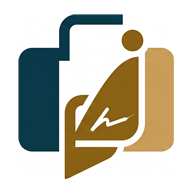
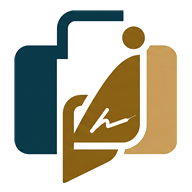
1.12 — sincronização de mão dupla, menu visível e configurações por abas
SINCRONIZAÇÃO — os dois buracos que você encontrou eram reais e vinham do
mesmo erro de desenho: ela só PUXAVA da nuvem.
- O que já existia no navegador antes da nuvem nunca subia, então quem
  entrava com outra conta via a fila vazia. Agora sobe o que só existe aqui.
- Exclusão não descia: uma lista de quem existe não sabe dizer quem deixou
  de existir. Excluir passou a deixar uma LÁPIDE no lugar do documento, e a
  sincronização apaga o registro em todos os computadores.
A lápide não guarda dado pessoal: o set sem merge substitui o documento
inteiro, então nome, CNPJ, sócios e endereços somem da nuvem no mesmo
instante — fica só o identificador e a data. E o excluído não ressuscita na
sincronização seguinte.

MENU — Solicitações, Painel de casos e E-mail passaram para o cabeçalho, a
um clique. O menu ☰ ficou com o que é ocasional (Configurações e Sair). No
celular, onde não cabe, os mesmos itens reaparecem dentro do menu.

CONFIGURAÇÕES — estava tudo numa coluna só e achar um campo virava rolagem.
Agora são cinco abas: Escritório, Padrões, Avisos, Nuvem e Equipe. O
conteúdo é o mesmo, só separado por assunto. A aba Equipe explica o que
fazer quando a conta não é de administrador, em vez de aparecer vazia.

ÍCONE sem fundo branco. O maskable continua opaco de propósito: o Android
recorta o ícone numa máscara, e fundo transparente ali vira buraco.

PAINEL DE CASOS — a barra de rolagem lateral sumia (barra sobreposta do
[…]

diff --git a/index.html b/index.html
@@ -9,7 +9,7 @@
 <meta http-equiv="Content-Security-Policy" content="default-src 'self'; script-src 'self' 'unsafe-inline' 'wasm-unsafe-eval' blob:; worker-src 'self' blob:; style-src 'self' 'unsafe-inline'; img-src 'self' data: blob:; font-src 'self' data:; connect-src 'self' https://viacep.com.br https://brasilapi.com.br https://identitytoolkit.googleapis.com https://securetoken.googleapis.com https://firestore.googleapis.com wss://firestore.googleapis.com data: blob:; object-src 'none'; base-uri 'none'; form-action 'none'" />
 <meta name="referrer" content="no-referrer" />
 <meta name="viewport" content="width=device-width, initial-scale=1" />
-<meta name="versao" content="1.11" />
+<meta name="versao" content="1.12" />
 <link rel="manifest" href="manifest.webmanifest" />
 <meta name="theme-color" content="#14293f" />
 <meta name="apple-mobile-web-app-capable" content="yes" />
@@ -203,6 +203,28 @@
   .pt-box input{width:100%;padding:9px 10px;border:1px solid var(--line);border-radius:8px;font:inherit;font-size:14px}
   .pt-box .btn{width:100%;margin-top:16px;justify-content:center}
   .pt-stat{font-size:12.5px;margin-top:10px;min-height:16px;text-align:center}
+  /* Painel de casos: rolagem lateral que não some */
+  .casos-rol{overflow-x:auto;overflow-y:hidden;padding-bottom:4px;scrollbar-gutter:stable}
+  .casos-rol::-webkit-scrollbar{height:11px}
+  .casos-rol::-webkit-scrollbar-track{background:#eef1f5;border-radius:6px}
+  .casos-rol::-webkit-scrollbar-thumb{background:#b9c2cd;border-radius:6px;border:2px solid #eef1f5}
+  .casos-rol::-webkit-scrollbar-thumb:hover{background:#8b97a6}
+  /* Abas das configurações */
+  .cfg-abas{display:flex;gap:4px;flex-wrap:wrap;border-bottom:1px solid var(--line);margin:-4px 0 14px;padding-bottom:0}
+  .cfg-aba{background:none;border:0;border-bottom:2px solid transparent;padding:8px 12px;font:inherit;font-size:13px;
+    color:var(--muted);cursor:pointer;border-radius:6px 6px 0 0}
+  .cfg-aba:hover{background:#eef1f5;color:#1b1f24}
+  .cfg-aba.ativa{color:var(--navy);font-weight:700;border-bottom-color:var(--navy)}
+  .cfg-aba:focus-visible{outline:2px solid var(--gold);outline-offset:-2px}
+  /* Itens do cabeçalho: um clique, sempre à vista */
+  .head-nav{display:flex;gap:6px;align-items:center;margin-right:8px}
+  .head-item{position:relative;display:flex;align-items:center;gap:6px;background:rgba(255,255,255,.10);border:1px solid rgba(255,255,255,.22);
+    color:#fff;border-radius:9px;padding:7px 12px;font:inherit;font-size:13px;cursor:pointer;transition:background .18s;white-space:nowrap}
+  .head-item:hover{background:rgba(255,255,255,.22)}
+  .head-item:focus-visible{outline:2px solid var(--gold);outline-offset:2px}
+  .head-item .badge{position:absolute;top:-6px;right:-6px;margin:0}
+  .so-mobile{display:none}
+  @media(max-width:900px){ .head-nav{display:none} .so-mobile{display:block} }
   /* Menu do usuário */
   .usermenu{position:relative}
   .menu-pop{position:absolute;right:10px;top:40px;min-width:250px;background:#fff;border:1px solid var(--line);border-radius:10px;box-shadow:0 10px 30px rgba(0,0,0,.18);padding:6px;display:none;z-index:60}
@@ -256,14 +278,23 @@
   <button class="head-install" id="btnInstalar" type="button" title="Instalar como aplicativo" style="display:none">⤓ Instalar app</button>
   <!-- Menu do usuário: reúne o que NÃO é do documento (solicitações, casos, e-mail, configurações).
        A barra de ações abaixo do formulário ficou só com o que age sobre o arquivo. -->
+  <!-- O que se usa o tempo todo fica a UM clique, no próprio cabeçalho. O menu guarda o resto. -->
+  <nav class="head-nav">
+    <button class="head-item" id="btnSolic" type="button">🗂 <span>Solicitações</span><span class="badge" id="solicBadge" style="display:none">0</span></button>
+    <button class="head-item" id="btnPainel" type="button">📁 <span>Painel de casos</span></button>
+    <button class="head-item" id="btnEmail" type="button">✉ <span>E-mail</span></button>
+  </nav>
   <div class="usermenu">
     <button class="head-gear" id="btnMenu" type="button" title="Menu" aria-label="Menu" aria-haspopup="true" aria-expanded="false">☰<span class="badge" id="menuBadge" style="display:none">0</span></button>
     <div class="menu-pop" id="menuPop" role="menu">
       <div class="menu-quem" id="menuQuem"></div>
-      <button type="button" role="menuitem" id="btnSolic">🗂 Solicitações <span class="badge" id="solicBadge" style="display:none">0</span></button>
-      <button type="button" role="menuitem" id="btnPainel">📁 Painel de casos</button>
-      <button type="button" role="menuitem" id="btnEmail">✉ E-mail de confirmação</button>
-      <div class="menu-sep"></div>
+      <!-- no celular o cabeçalho não cabe: os mesmos itens reaparecem aqui -->
+      <div class="so-mobile">
+        <button type="button" role="menuitem" id="btnSolicM">🗂 Solicitações</button>
+        <button type="button" role="menuitem" id="btnPainelM">📁 Painel de casos</button>
+        <button type="button" role="menuitem" id="btnEmailM">✉ E-mail de confirmação</button>
+        <div class="menu-sep"></div>
+      </div>
       <button type="button" role="menuitem" id="btnConfig">⚙ Configurações</button>
       <button type="button" role="menuitem" id="btnSairMenu" style="display:none">⎋ Sair</button>
     </div>
@@ -795,9 +826,16 @@
   <div class="modal">
     <div class="mh"><span>⚙ Configurações do escritório</span><button class="x" id="btnConfigClose">Fechar</button></div>
     <div class="mb">
-      <div class="hint" style="margin-bottom:12px">Personalize a marca e os dados que se repetem. Fica salvo <b>só neste navegador</b>. Nada aqui entra nos documentos como dado de cliente — é a identidade do seu escritório e valores padrão.</div>
+      <div class="cfg-abas" role="tablist">
+        <button type="button" class="cfg-aba ativa" data-cfg="escritorio" role="tab">Escritório</button>
+        <button type="button" class="cfg-aba" data-cfg="padroes" role="tab">Padrões</button>
+        <button type="button" class="cfg-aba" data-cfg="avisos" role="tab">Avisos</button>
+        <button type="button" class="cfg-aba" data-cfg="nuvem" role="tab">Nuvem</button>
+        <button type="button" class="cfg-aba" data-cfg="equipe" role="tab" id="cfgAbaEquipe" style="display:none">Equipe</button>
+      </div>
 
-      <div class="hint" style="font-weight:700;color:var(--navy);margin:4px 0 6px">Identidade (marca)</div>
+      <section class="cfg-painel" data-cfg="escritorio">
+      <div class="hint" style="margin-bottom:10px">A identidade do seu escritório nos documentos e no e-mail. Fica salvo <b>só neste navegador</b>.</div>
       <div class="grid g2 row">
         <div><label for="cfgEscritorio">Nome do escritório</label><input type="text" id="cfgEscritorio" placeholder="Ex.: Sua Contabilidade Ltda"></div>
         <div><label for="cfgCor">Cor principal <span class="hint">(destaque do topo/botões)</span></label><input type="color" id="cfgCor" value="#14293f" style="height:42px;padding:4px"></div>
@@ -811,16 +849,22 @@
         </div>
       </div>
 
-      <div class="hint" style="font-weight:700;color:var(--navy);margin:14px 0 6px">Dados que se repetem</div>
+      <div class="hint" style="font-weight:700;color:var(--navy);margin:14px 0 6px">Quem assina os e-mails</div>
       <div class="grid g2 row">
         <div><label for="cfgParalegal">Paralegal responsável <span class="hint">(assinatura do e-mail)</span></label><input type="text" id="cfgParalegal" placeholder="Seu nome"></div>
         <div><label for="cfgRemetente">E-mail do remetente</label><input type="text" id="cfgRemetente" placeholder="voce@seuescritorio.com.br"></div>
       </div>
-      <div class="grid g2 row">
-        <div><label for="cfgAvisoWhats">WhatsApp para avisos <span class="hint">(solicitação nova)</span></label><input type="text" id="cfgAvisoWhats" placeholder="(79) 90000-0000"></div>
-        <div><label for="cfgAvisoEmail">E-mail para avisos</label><input type="text" id="cfgAvisoEmail" placeholder="equipe@seuescritorio.com.br"></div>
-      </div>
-      <div class="hint" style="font-weight:700;color:var(--navy);margin:14px 0 6px">Nuvem <span class="hint" style="font-weight:400">— entra para compartilhar solicitações e casos entre computadores</span></div>
+      </section>
+
+      <section class="cfg-painel" data-cfg="avisos" hidden>
+        <div class="hint" style="margin-bottom:10px">Para onde mandar o aviso quando alguém da equipe lança uma solicitação nova. O envio é a um clique, pelo botão <b>Avisar</b> na solicitação.</div>
+        <div class="grid g2 row">
+          <div><label for="cfgAvisoWhats">WhatsApp para avisos</label><input type="text" id="cfgAvisoWhats" placeholder="(79) 90000-0000"></div>
+          <div><label for="cfgAvisoEmail">E-mail para avisos</label><input type="text" id="cfgAvisoEmail" placeholder="equipe@seuescritorio.com.br"></div>
+        </div>
+      </section>
+      <section class="cfg-painel" data-cfg="nuvem" hidden>
+      <div class="hint" style="margin-bottom:10px">Entrar compartilha solicitações e casos entre computadores. Sem isso o sistema funciona igual, só neste navegador.</div>
       <div class="grid g3 row" id="nuvemLogin">
         <div><label for="nvEmail">E-mail</label><input type="text" id="nvEmail" autocomplete="username"></div>
         <div><label for="nvSenha">Senha</label><input type="password" id="nvSenha" autocomplete="current-password"></div>
@@ -830,8 +874,11 @@
         </div>
       </div>
       <div class="hint" id="nvStatus" style="margin-top:4px"></div>
-      <div id="equipeBloco" style="display:none;margin-top:10px">
-        <div class="hint" style="font-weight:700;color:var(--navy);margin-bottom:6px">Equipe</div>
+      </section>
+
+      <section class="cfg-painel" data-cfg="equipe" hidden>
+      <div id="equipeBloco" style="display:none">
+        <div class="hint" style="margin-bottom:10px">Cadastre quem usa o sistema. Peça para trocarem a senha no primeiro acesso — o sistema não força.</div>
         <div class="grid g4 row">
           <div><label for="eqNome">Nome</label><input type="text" id="eqNome"></div>
           <div><label for="eqEmail">E-mail</label><input type="text" id="eqEmail" autocomplete="off"></div>
@@ -842,8 +889,12 @@
           </div>
         </div>
         <div class="fldstat" id="eqStat"></div>
-        <div id="eqLista" style="margin-top:8px"></div>
+        <div id="eqLista" style="margin-top:10px"></div>
       </div>
+      <div class="hint" id="equipeSemAdmin">Só quem é administrador cadastra e remove pessoas. Entre na aba <b>Nuvem</b> com uma conta de administrador.</div>
+      </section>
+
+      <section class="cfg-painel" data-cfg="padroes" hidden>
 
       <div class="row">
         <label for="cfgJunta">Junta Comercial <span class="hint">— nome que aparece nos documentos; troque para o seu estado</span></label>
@@ -868,6 +919,8 @@
         <div><label for="cfgOrgaoUF">UF do órgão</label><select id="cfgOrgaoUF"></select></div>
       </div>
       <div class="row"><label for="cfgForo">Foro padrão <span class="hint">(comarca)</span></label><input type="text" id="cfgForo" placeholder="Ex.: Aracaju - SE"></div>
+
+      </section>
 
       <div class="bar" style="margin-top:14px">
         <button class="btn p mini" id="btnConfigSalvar">Salvar configurações</button>
@@ -2640,39 +2693,70 @@ window.TINA=(function(){
   }
   /* Traz da nuvem o que não existe aqui (outro computador, ou navegador limpo).
      Não sobrescreve o que é mais novo localmente — em conflito, o mais recente vence. */
+  // mesma lógica de mão dupla dos atos: desce (com exclusões) e sobe o que só existe aqui
   function sincronizarSolic(){
     if(!(window.Nuvem&&window.Nuvem.podeGravar())) return Promise.resolve();
     return window.Nuvem.listar("solicitacoes",{limite:500}).then(r=>{
       if(!r.ok) return;
-      const local=lerSolic(); const porId={}; local.forEach(x=>porId[x.id]=x);
+      let local=lerSolic(); const remoto={}; r.itens.forEach(x=>remoto[x.id]=x);
       let mudou=false;
       r.itens.forEach(rem=>{
-        const loc=porId[rem.id];
+        if(rem.excluido){ if(local.some(x=>x.id===rem.id)){ local=local.filter(x=>x.id!==rem.id); mudou=true; } return; }
+        const loc=local.find(x=>x.id===rem.id);
         if(!loc){ local.push(rem); mudou=true; }
-        else if((rem.alteradoEm||"")>(loc.alteradoEm||"")){ Object.assign(loc,rem); mudou=true; }
+        else if(_maisNovo(rem.alteradoEm,loc.alteradoEm)){ Object.assign(loc,rem); mudou=true; }
       });
       if(mudou){ local.sort((a,b)=>String(b.alteradoEm||"").localeCompare(String(a.alteradoEm||""))); salvarSolic(local); renderSolic(); }
+      const subir=local.filter(s=>{ const rem=remoto[s.id];
+        if(rem&&rem.excluido) return false;
+        return !rem || _maisNovo(s.alteradoEm,rem.alteradoEm); });
+      if(!subir.length) return;
+      return Promise.all(subir.slice(0,80).map(s=>window.Nuvem.salvar("solicitacoes",s.id,s)));
     });
   }
   /* Traz da nuvem os atos que faltam neste navegador (outro computador, ou cache limpo).
      O trabalho completo vem junto e é gravado no armazenamento de "trabalhos em espera",
      que é de onde o painel já sabe reabrir um caso. */
+  /* Sincronização de mão dupla. A primeira versão só PUXAVA, e isso deixava dois buracos que
+     apareceram no uso real: (1) o que já existia neste navegador antes da nuvem nunca subia, então
+     um colega novo via a fila vazia; (2) exclusão não descia, porque uma lista de quem existe não
+     sabe dizer quem deixou de existir. Agora: sobe o que falta lá, desce o que falta aqui, e as
+     lápides (ver nuvem.js) apagam de verdade dos dois lados. Em conflito, vence o mais recente. */
+  function _maisNovo(a,b){ return String(a||"")>String(b||""); }
   function sincronizarAtos(){
     if(!(window.Nuvem&&window.Nuvem.podeGravar())) return Promise.resolve();
     return window.Nuvem.listar("atos",{limite:500}).then(r=>{
       if(!r.ok) return;
-      const cs=lerCasos(); const por={}; cs.forEach(c=>por[c.id]=c);
-      const tr=lerTrabalhos(); let mudou=false, mudouTr=false;
+      let cs=lerCasos(); const tr=lerTrabalhos();
+      const remoto={}; r.itens.forEach(x=>remoto[x.id]=x);
+      let mudou=false, mudouTr=false;
+      // 1) desce: novos, mais recentes e exclusões
       r.itens.forEach(rem=>{
+        if(rem.excluido){                                     // apagado noutro computador
+          if(cs.some(c=>c.id===rem.id)){ cs=cs.filter(c=>c.id!==rem.id); mudou=true; }
+          if(tr[rem.id]){ delete tr[rem.id]; mudouTr=true; }
+          if(casoAtualId===rem.id) casoAtualId=null;
+          return;
+        }
         const {trabalho,...caso}=rem;
-        const loc=por[caso.id];
+        const loc=cs.find(c=>c.id===caso.id);
         if(!loc){ cs.push(caso); mudou=true; }
-        else if((rem.alteradoEm||"")>(loc.alteradoEm||"")){ Object.assign(loc,caso); mudou=true; }
+        else if(_maisNovo(rem.alteradoEm,loc.alteradoEm)){ Object.assign(loc,caso); mudou=true; }
         if(trabalho && !tr[caso.id]){ tr[caso.id]={ts:Date.parse(rem.alteradoEm||"")||Date.now(), snap:trabalho}; mudouTr=true; }
       });
       if(mudou) salvarCasos(cs);
       if(mudouTr) gravarTrabalhos(tr);
       if(mudou||mudouTr) renderPainel();
+      // 2) sobe: o que só existe aqui (inclusive o que é anterior à nuvem) ou está mais novo aqui
+      const subir=cs.filter(c=>{ const rem=remoto[c.id];
+        if(rem&&rem.excluido) return false;                   // não ressuscita o que foi excluído
+        return !rem || _maisNovo(c.alteradoEm,rem.alteradoEm); });
+      if(!subir.length) return;
+      return Promise.all(subir.slice(0,80).map(c=>{
+        const t=tr[c.id]; const dados=Object.assign({},c,{alteradoEm:c.alteradoEm||new Date(c.criadoEm||Date.now()).toISOString()});
+        if(t&&t.snap) dados.trabalho=t.snap;
+        return window.Nuvem.salvar("atos",c.id,dados);
+      })).then(()=>{ if(subir.length) salvarCasos(cs); });
     });
   }
   /* ===== Aviso de solicitação nova =====
@@ -2922,7 +3006,9 @@ window.TINA=(function(){
     else casos.sort((a,b)=>(b.criadoEm||0)-(a.criadoEm||0));
     if(!todos){box.innerHTML="<p class='hint'>Nenhum caso salvo ainda. Preencha um ato e clique em \"+ Salvar caso atual\" (ou salve pelo e-mail de confirmação).</p>";return;}
     if(!casos.length){box.innerHTML="<p class='hint'>Nenhum caso corresponde à busca \""+escHtml(q)+"\".</p>";return;}
-    box.innerHTML="<div style='overflow-x:auto'><table style='width:100%;font-size:12px;border-collapse:collapse' class='casostbl'>"+
+    // rolagem lateral com barra SEMPRE visível: com a barra sobreposta do Windows ela some quando
+    // o ponteiro sai, e a coluna de ações à direita parecia não existir
+    box.innerHTML="<div class='casos-rol'><table style='min-width:640px;width:100%;font-size:12px;border-collapse:collapse' class='casostbl'>"+
       "<tr><th style='text-align:left'>ID</th><th style='text-align:left'>Empresa</th><th style='text-align:left'>Tipo</th><th>Data</th><th>Situação</th><th></th></tr>"+
       casos.map(c=>"<tr data-id='"+escHtml(c.id)+"'"+(c.id===casoAtualId?" style='background:#f2f7ff'":"")+">"+
         "<td><code>#"+escHtml(c.id)+"</code></td>"+
@@ -4384,6 +4470,14 @@ window.TINA=(function(){
     $("btnPDF").addEventListener("click",baixarPDF);
     $("s_uf").innerHTML=ufOpts();
     if($("advOabUf")) $("advOabUf").innerHTML=ufOpts();
+    /* Abas das configurações: tudo estava numa coluna só, e achar um campo virava rolagem.
+       O conteúdo é o mesmo — só passou a ficar separado por assunto. */
+    document.querySelectorAll(".cfg-aba").forEach(b=>b.addEventListener("click",()=>{
+      const alvo=b.dataset.cfg;
+      document.querySelectorAll(".cfg-aba").forEach(x=>x.classList.toggle("ativa",x===b));
+      document.querySelectorAll(".cfg-painel").forEach(p=>{ p.hidden=(p.dataset.cfg!==alvo); });
+      const mb=b.closest(".mb"); if(mb) mb.scrollTop=0;
+    }));
     /* Nuvem: liga os controles e mantém o rodapé em dia. Se não houver configuração
        (arquivo nuvem-config.js em branco), tudo continua funcionando só no navegador. */
     /* Menu do usuário: abre no clique, fecha ao escolher, ao clicar fora ou com Esc. */
@@ -4439,6 +4533,10 @@ window.TINA=(function(){
       st.textContent=ehAdmin ? "Caso de teste baixado."
         : "Arquivo gerado — envie ao suporte do sistema. Ele não contém dados do seu cliente.";
     });
+    // os itens do celular fazem o mesmo que os do cabeçalho
+    if($("btnSolicM")) $("btnSolicM").addEventListener("click",()=>$("btnSolic").click());
+    if($("btnPainelM")) $("btnPainelM").addEventListener("click",()=>$("btnPainel").click());
+    if($("btnEmailM")) $("btnEmailM").addEventListener("click",()=>$("btnEmail").click());
     if($("btnSolic")) $("btnSolic").addEventListener("click",()=>{ abrirSolic(); sincronizarSolic(); });
     if($("btnSolicClose")) $("btnSolicClose").addEventListener("click",()=>$("solicModal").classList.remove("open"));
     if($("btnSolicNova")) $("btnSolicNova").addEventListener("click",novaSolic);
@@ -4497,6 +4595,8 @@ window.TINA=(function(){
         const bt=$("btnCasoTeste");
         if(bt) bt.textContent = e.admin ? "Guardar como caso de teste" : "Relatar problema de leitura";
         const eb=$("equipeBloco"); if(eb) eb.style.display=e.admin?"":"none";
+        const semAdm=$("equipeSemAdmin"); if(semAdm) semAdm.style.display=e.admin?"none":"";
+        const abaEq=$("cfgAbaEquipe"); if(abaEq) abaEq.style.display=e.configurado?"":"none";
         if(e.admin && window.__renderEquipe) window.__renderEquipe();
         if(e.daEquipe){ sincronizarSolic(); sincronizarAtos(); ligarAvisoSolic(); }
       });
@@ -4689,7 +4789,7 @@ window.TINA=(function(){
   });
   window.addEventListener("load",()=>bootPronto());              // rede lenta: libera assim que tudo carregou
   setTimeout(()=>bootPronto(),8000);                              // trava de segurança: nunca ficar preso
-  return{recalc,removeSocio,gerarPreview,baixarDocx,baixarPDF,gerarPdfBlob,exemplo,limpar,validar,acaoValidar,_u:{extensoReais,extensoInt,dataExtenso,validaCPF,validaCNPJ,fmtCnpj},_pdf:{parseContratoTexto,aplicarDadosContrato,aplicarDocFormulario,procedencia,aplicarAtribuicao,comparacao:()=>_comparacao,preProtocolo,anonimizarContrato,sobrouDadoReal},_cmd:{parseComandos,normAtividade,mesmaAtividade},_ux:{toast,renderPainel,exportarCasos,importarCasos,duplicarCaso,abrirConfig,aplicarCfg,lerCfg,salvarCfg,snapshotForm,restaurarForm,draftTemConteudo,shade,checarConsistencia,cepUF,lerObjetos,salvarObjetos,inserirObjeto}};
+  return{recalc,removeSocio,gerarPreview,baixarDocx,baixarPDF,gerarPdfBlob,exemplo,limpar,validar,acaoValidar,_u:{extensoReais,extensoInt,dataExtenso,validaCPF,validaCNPJ,fmtCnpj},_pdf:{parseContratoTexto,aplicarDadosContrato,aplicarDocFormulario,procedencia,aplicarAtribuicao,comparacao:()=>_comparacao,preProtocolo,anonimizarContrato,sobrouDadoReal},_cmd:{parseComandos,normAtividade,mesmaAtividade},_ux:{toast,renderPainel,sincronizarSolic,sincronizarAtos,exportarCasos,importarCasos,duplicarCaso,abrirConfig,aplicarCfg,lerCfg,salvarCfg,snapshotForm,restaurarForm,draftTemConteudo,shade,checarConsistencia,cepUF,lerObjetos,salvarObjetos,inserirObjeto}};
 })();
 </script>
 <button id="btnTopo" type="button" title="Voltar ao topo" aria-label="Voltar ao topo">↑</button>

diff --git a/testes.html b/testes.html
@@ -436,6 +436,53 @@
         !!(dB.conferir||[]).some(function(x){ return /Capital/i.test(x); }), (dB.conferir||[]).join(" | ").slice(0,120));
     }catch(e){ reg("Bateria de leitura por cláusula",false,String(e&&e.message||e).slice(0,120)); }
 
+    /* ---------- 6b2k. Sincronização de mão dupla ----------
+       A primeira versão só PUXAVA da nuvem. No uso real isso deixou dois buracos: o que já
+       existia no navegador antes da nuvem nunca subia (o colega novo via a fila vazia), e a
+       exclusão não descia (uma lista de quem existe não diz quem deixou de existir). */
+    grupo("Sincronização");
+    try{
+      await recarregar(); $=function(id){ return D.getElementById(id); };
+      // nuvem simulada: guarda o que sobe e devolve o que "existe lá"
+      var nuvem={}, enviados=[];
+      W.Nuvem.podeGravar=function(){ return true; };
+      W.Nuvem.listar=function(col){ return Promise.resolve({ok:true,itens:Object.keys(nuvem).map(function(k){return nuvem[k];})}); };
+      W.Nuvem.salvar=function(col,id,dados){ enviados.push(id); nuvem[id]=Object.assign({id:id},dados); return Promise.resolve({ok:true,id:id}); };
+      W.Nuvem.trilha=function(){ return Promise.resolve({ok:true}); };
+
+      // 1) SOBE o que só existe aqui (registro anterior à nuvem, sem alteradoEm)
+      W.localStorage.setItem("tinaSolic",JSON.stringify([
+        {id:"S-ANTIGA",empresa:"ANTERIOR A NUVEM",status:"nova",alteradoEm:"2026-01-01T00:00:00.000Z"}]));
+      await W.TINA._ux.sincronizarSolic(); await espera(300);
+      reg("Sobe para a nuvem o que já existia neste navegador",
+        !!nuvem["S-ANTIGA"] && enviados.indexOf("S-ANTIGA")>=0, JSON.stringify(Object.keys(nuvem)));
+
+      // 2) DESCE o que foi criado noutro computador
+      nuvem["S-OUTRA"]={id:"S-OUTRA",empresa:"CRIADA NO OUTRO PC",status:"nova",alteradoEm:"2026-02-01T00:00:00.000Z"};
+      await W.TINA._ux.sincronizarSolic(); await espera(300);
+      var loc=JSON.parse(W.localStorage.getItem("tinaSolic")||"[]");
+      reg("Desce o que foi criado noutro computador", loc.some(function(x){return x.id==="S-OUTRA";}), loc.length+" local");
+
+      // 3) EXCLUSÃO desce: a lápide apaga aqui também
+      nuvem["S-OUTRA"]={id:"S-OUTRA",excluido:true,excluidoEm:"2026-03-01T00:00:00.000Z"};
+      await W.TINA._ux.sincronizarSolic(); await espera(300);
+      loc=JSON.parse(W.localStorage.getItem("tinaSolic")||"[]");
+      reg("Excluída noutro computador some daqui também",
+        !loc.some(function(x){return x.id==="S-OUTRA";}), loc.map(function(x){return x.id;}).join(","));
+      reg("E o que não foi excluído permanece", loc.some(function(x){return x.id==="S-ANTIGA";}));
+
+      // 4) o excluído NÃO volta a subir na próxima sincronização
+      enviados.length=0;
+      await W.TINA._ux.sincronizarSolic(); await espera(300);
+      reg("Registro excluído não ressuscita ao sincronizar de novo",
+        enviados.indexOf("S-OUTRA")<0 && !!nuvem["S-OUTRA"].excluido, enviados.join(","));
+
+      // 5) a lápide não guarda dado pessoal
+      reg("A lápide não guarda nome nem CNPJ",
+        !nuvem["S-OUTRA"].empresa && !nuvem["S-OUTRA"].cnpj, JSON.stringify(Object.keys(nuvem["S-OUTRA"])));
+      try{ W.localStorage.removeItem("tinaSolic"); }catch(e){}
+    }catch(e){ reg("Bateria de sincronização",false,String(e&&e.message||e).slice(0,130)); }
+
     /* ---------- 6b2j. Anonimizador: guardar a redação sem guardar o cliente ---------- */
     grupo("Caso de teste anonimizado");
     try{

diff --git a/js/nuvem.js b/js/nuvem.js
@@ -155,9 +155,20 @@
       .catch(function (e) { return { ok: false, msg: (e && e.message) || "falha ao ler", itens: [] }; });
   }
 
+  /* Excluir deixa uma LÁPIDE no lugar do documento, em vez de apagar a linha.
+     Motivo: apagar de verdade não se propaga. Quem já baixou o registro noutro computador
+     continuaria com ele para sempre — a sincronização não tem como saber a diferença entre
+     "nunca existiu aqui" e "foi excluído lá". A lápide resolve isso e NÃO guarda dado pessoal:
+     o set() sem merge substitui o documento inteiro, então nome, CNPJ, sócios e endereços
+     desaparecem da nuvem no mesmo instante. Fica só o identificador e a data. */
   function excluir(colecao, id) {
     if (!podeGravar()) return Promise.resolve({ ok: false, msg: "não conectado" });
-    return db.collection(colecao).doc(String(id)).delete()
+    return db.collection(colecao).doc(String(id)).set({
+      excluido: true,
+      excluidoEm: new Date().toISOString(),
+      autorUid: _usuario.uid,
+      atualizadoEm: firebase.firestore.FieldValue.serverTimestamp()
+    })
       .then(function () { return { ok: true }; })
       .catch(function (e) { return { ok: false, msg: (e && e.message) || "falha ao excluir" }; });
   }
@@ -231,6 +242,7 @@
         snap.docChanges().forEach(function (c) {
           if (c.type !== "added") return;
           var x = c.doc.data() || {}; x.id = c.doc.id;
+          if (x.excluido) return;                                   // lápide não é novidade
           if (x.autorUid && x.autorUid === _usuario.uid) return;   // não avisa do próprio lançamento
           try { aoChegar(x); } catch (e) {}
         });

diff --git a/sw.js b/sw.js
@@ -4,7 +4,7 @@
      e guarda a cópia mais nova para uso offline. Assim, abrir o app online = sempre a última versão.
    - Demais recursos do mesmo domínio (libs grandes, ícones): cache primeiro (rápido/offline).
    - Recursos externos (ViaCEP): passam direto pela rede. */
-const CACHE = "atos-shell-v42";
+const CACHE = "atos-shell-v43";
 const CORE = [
   "./",
   "./index.html",
